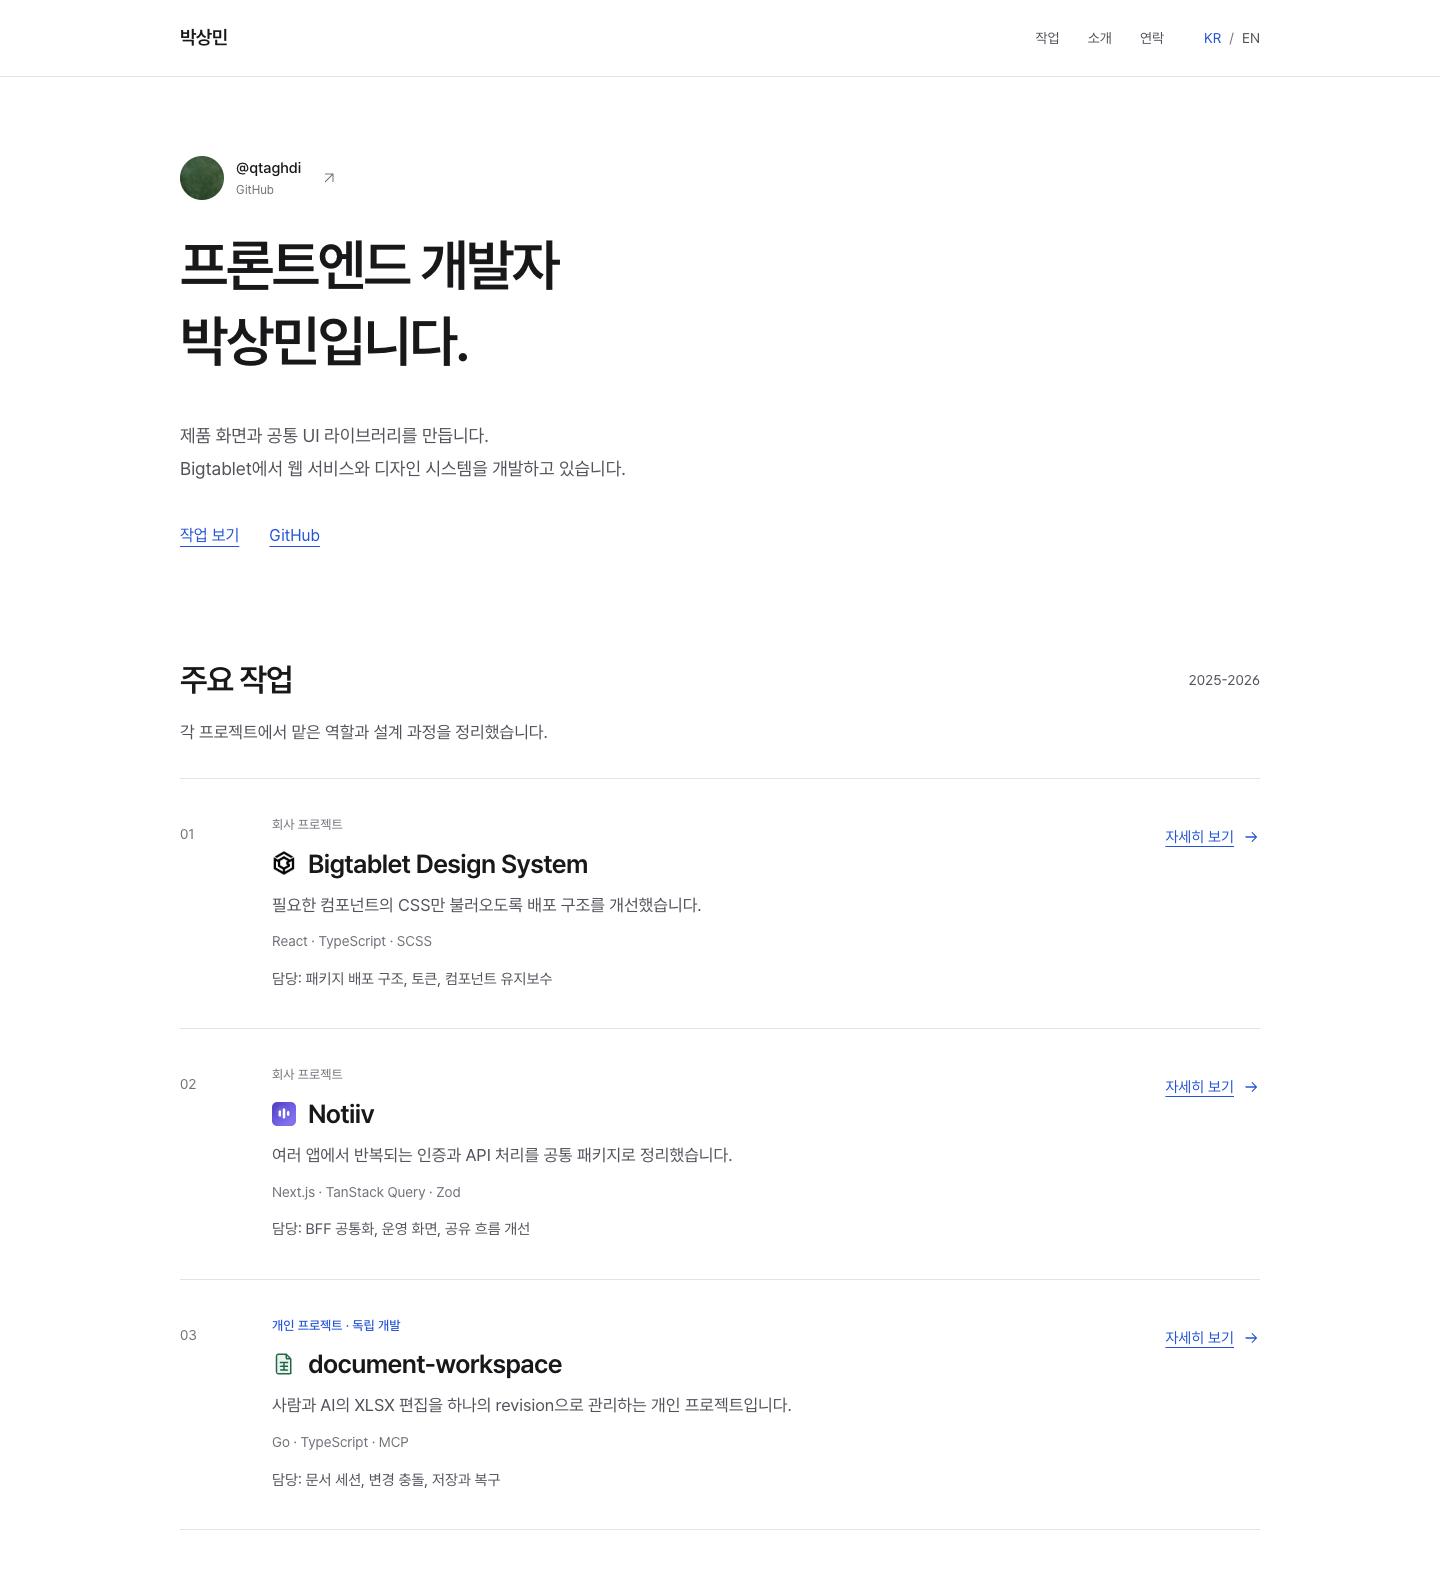
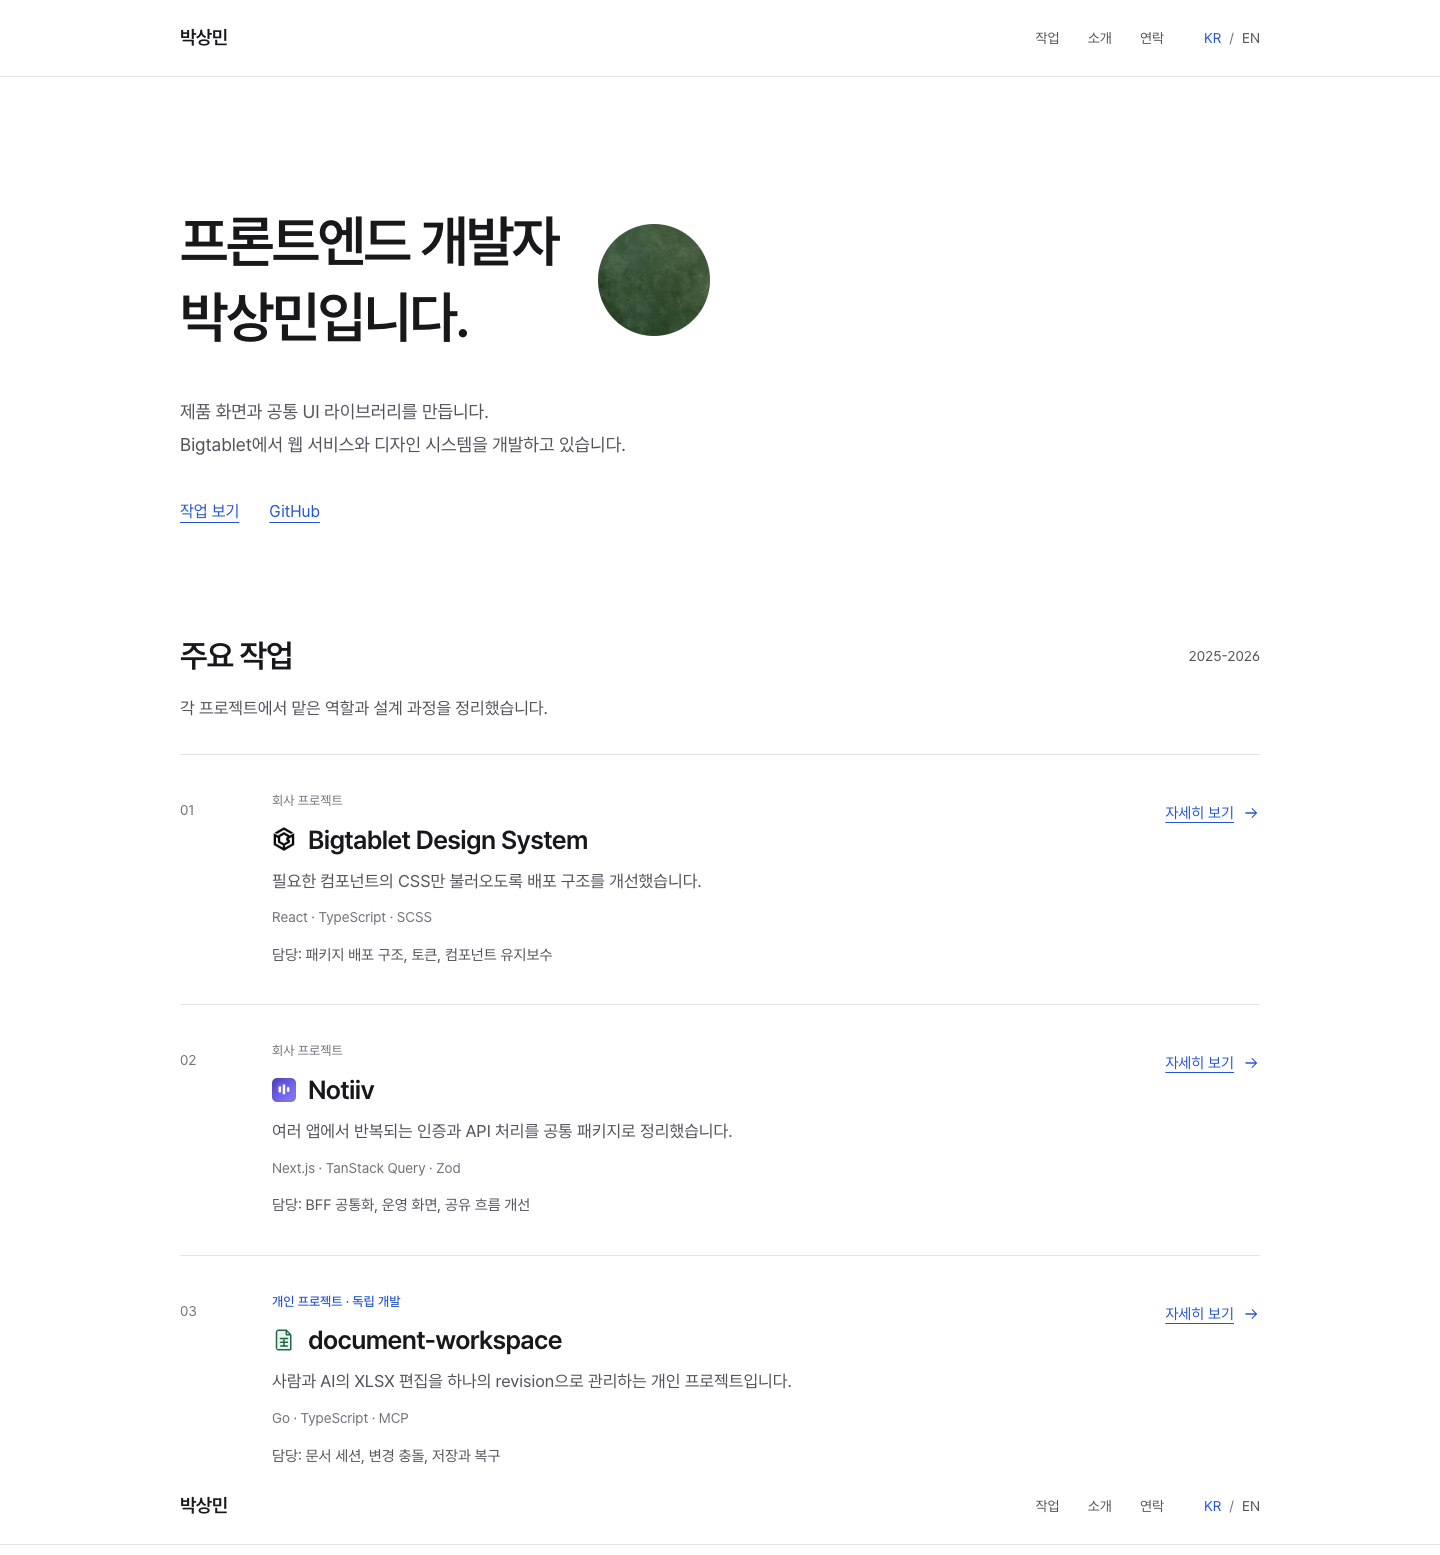
fix: show profile photo beside the hero heading

diff --git a/tests/visual/original-screens.spec.ts b/tests/visual/original-screens.spec.ts
@@ -83,10 +83,9 @@ test('home shows small project icons in both work lists', async ({ page }) => {
     expect(await icon.evaluate((image: HTMLImageElement) => image.complete && image.naturalWidth > 0)).toBe(true);
     await expect(icon).toHaveAttribute('alt', '');
   }
-  const profile = page.locator('#hero .github-profile');
-  await expect(profile).toHaveAttribute('href', 'https://github.com/qtaghdi');
-  await expect(profile.locator('img')).toHaveAttribute('alt', /GitHub 프로필 사진$/);
-  await expect(profile.locator('strong')).toHaveText('@qtaghdi');
+  const profile = page.locator('#hero .hero-heading .profile-avatar');
+  await expect(profile).toHaveAttribute('alt', /프로필 사진$/);
+  await expect(page.locator('#hero a[href="https://github.com/qtaghdi"]')).toHaveCount(1);
   await expect(page.locator('#more-work .project-icon')).toHaveCount(10);
   await expect(page.locator('.featured-list .project-icon').nth(2)).toHaveAttribute('src', '/projects/document-workspace/icon.svg');
   const overflow = await page.evaluate(() => document.documentElement.scrollWidth - document.documentElement.clientWidth);
